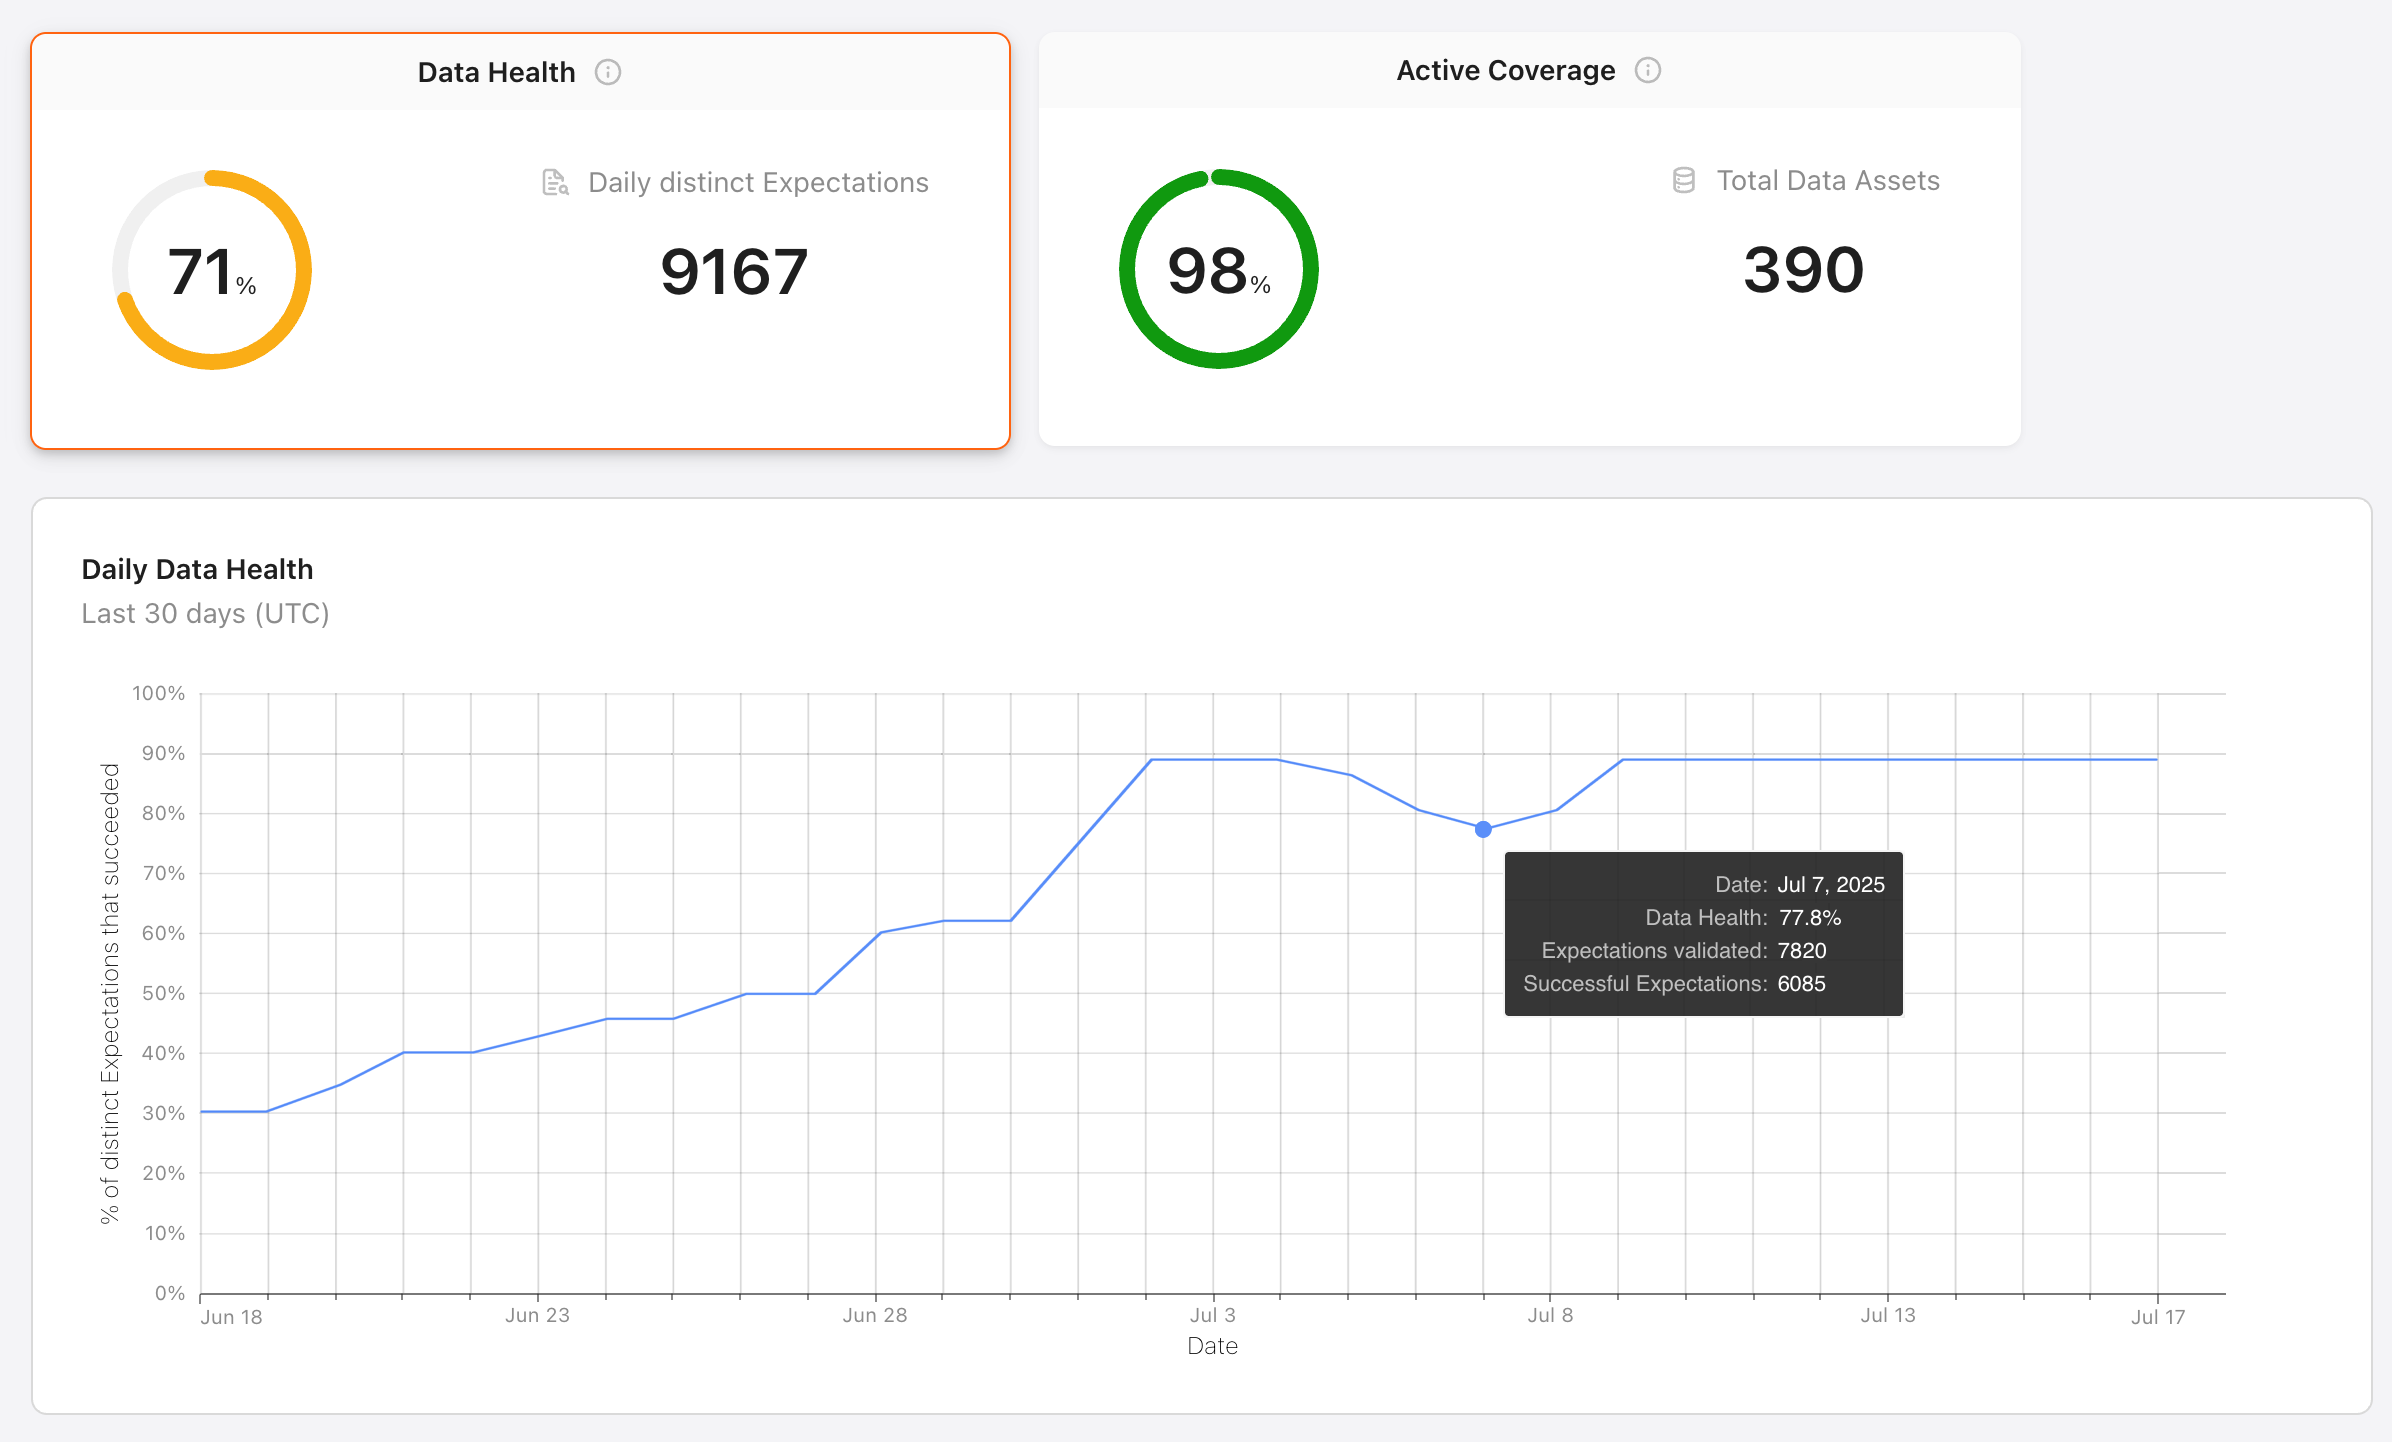
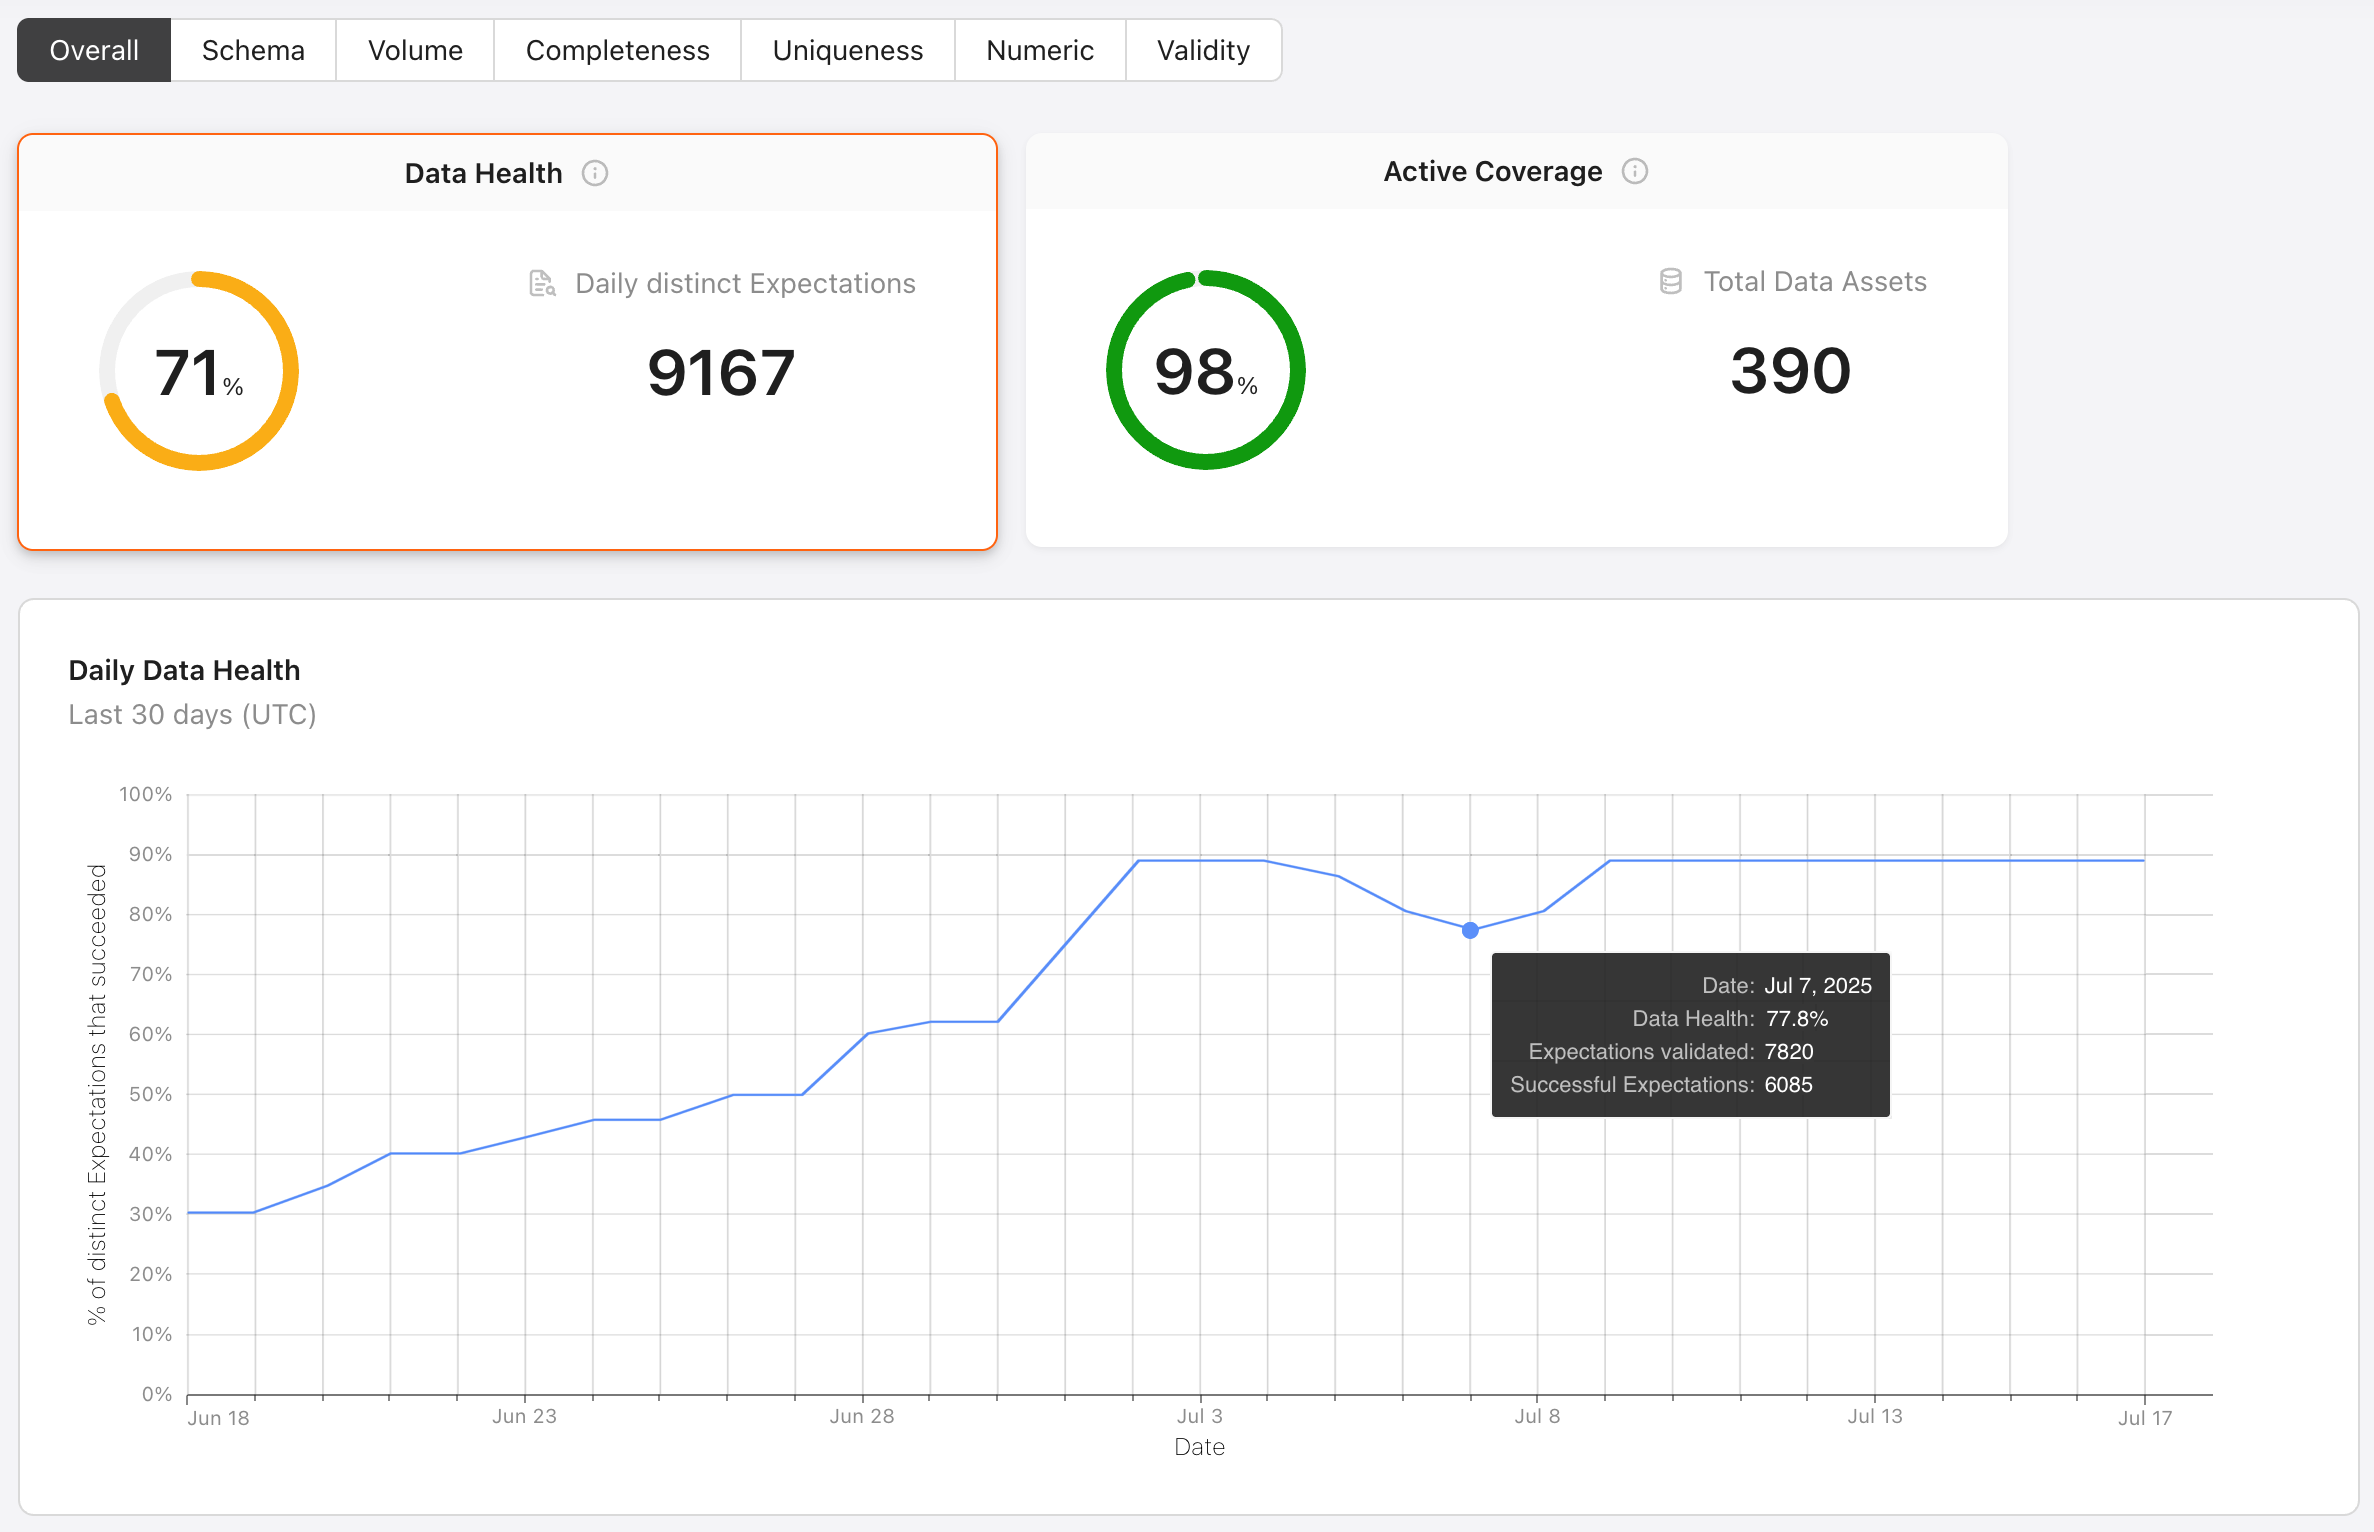
add filters

diff --git a/docs/docusaurus/docs/cloud/overview/data_health.md b/docs/docusaurus/docs/cloud/overview/data_health.md
@@ -8,7 +8,7 @@ To understand the health of your data, you need to know whether tests are passin
 ## Metrics
 To give you these insights into the health of your data, GX Cloud provides the following metrics on the **Data Health** page:
 
-![Example metrics: Data Health 71%, Daily distinct Expectations 9167, Active Coverage 98%, Total Data Assets 390. Daily Data Health rollover details include date, Data Health percentage, count of Expectations validated, and count of successful Expectations.](/img/data_health.png)
+![Example metrics: Data Health 71%, Daily distinct Expectations 9167, Active Coverage 98%, Total Data Assets 390. Daily Data Health rollover details include date, Data Health percentage, count of Expectations validated, and count of successful Expectations. Metrics default to overall data and can be filtered to a specific data quality issue, such as schema.](/img/data_health.png)
 
 - **Data Health:** A 30-day average of the following daily percentage: the number of successful distinct Expectations in a day divided by the number of distinct Expectations validated in that day. Here are some scenarios to help you understand the concepts of distinct Expectation validations and successful distinct Expectations as used in calculating data health metrics.
    - If an Expectation is validated multiple times for a given Data Asset in a single day, it will be counted as one distinct Expectation validation.
